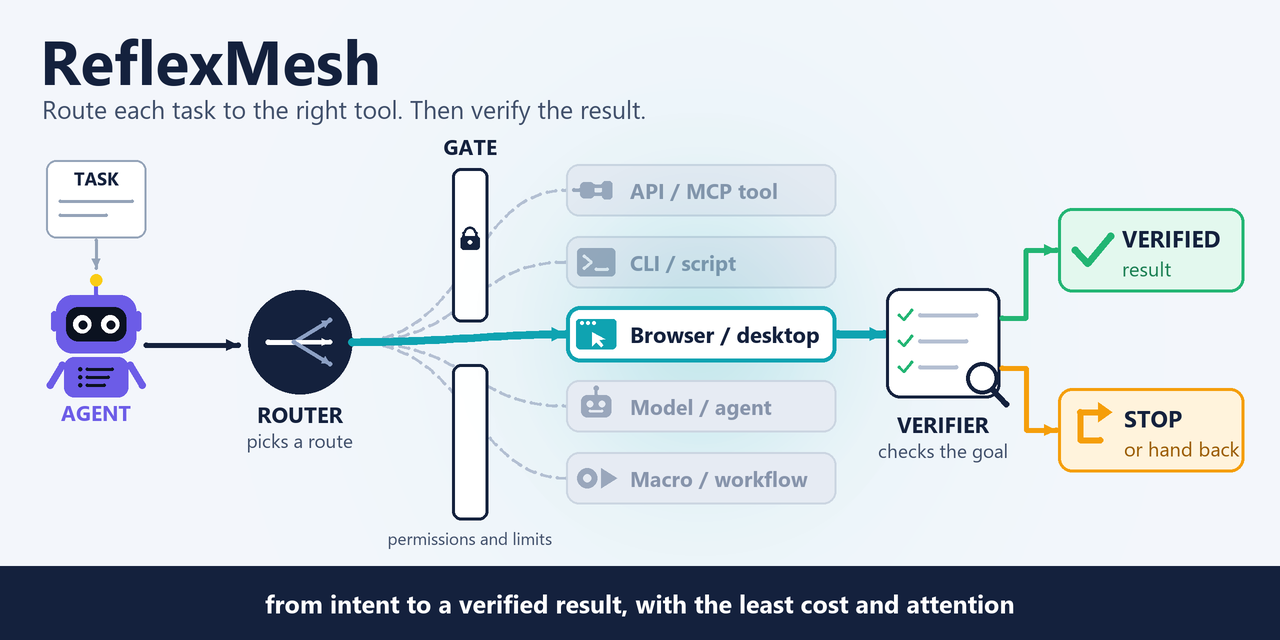
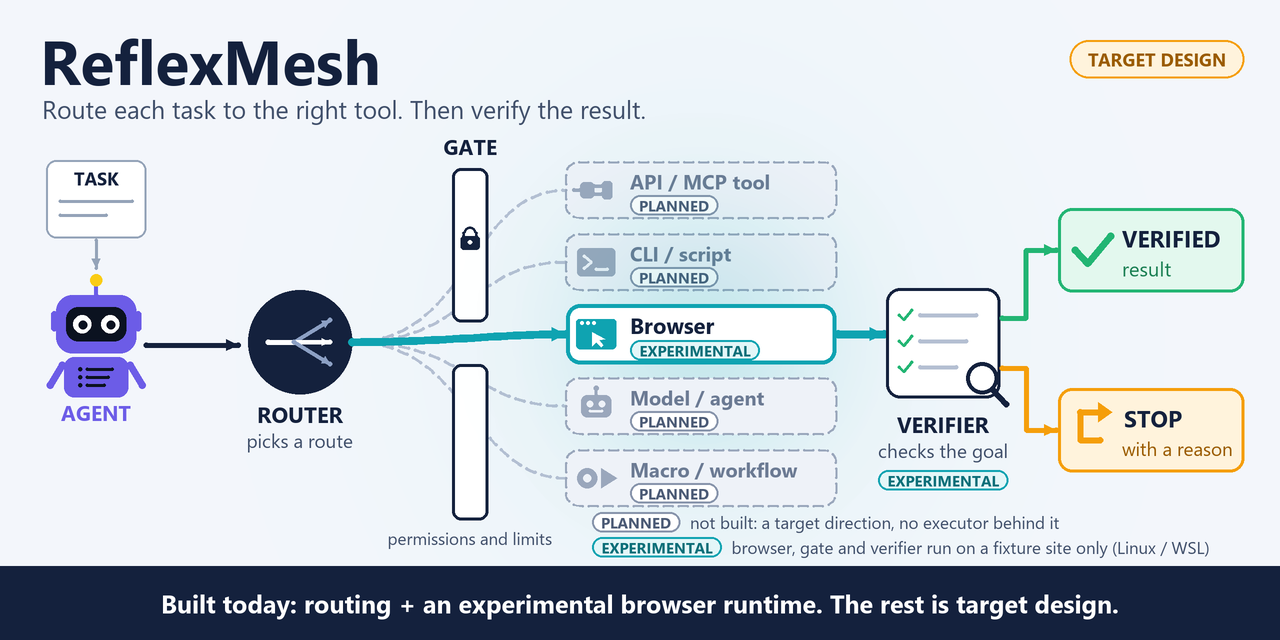
docs(readme): address review on #2
- Split the `run` exit-code entry: exit 2 is an input error or an
  output-directory preparation error before the attempt starts; a failure to
  write trace.jsonl, evidence.jsonl or result.json after the run is
  `failed` / `output_error` and exits 5 (src/reflexmesh/runtime/cli.py).
- Regenerate the hero image so it no longer shows five routes as if all exist:
  the API/MCP, CLI, model/agent and macro routes are drawn dashed and tagged
  PLANNED, the browser route, gate and verifier are tagged EXPERIMENTAL
  (fixture site only), a TARGET DESIGN marker and a "built today" caption are
  added, and "or hand back" (handoff is a V0.6 placeholder) becomes
  "with a reason". Update the alt text in both READMEs.

diff --git a/README.ru.md b/README.ru.md
@@ -1,5 +1,5 @@
 <p align="center">
-  <img src="docs/assets/ReflexMesh-hero.png" alt="ReflexMesh: задача от агента попадает к маршрутизатору, который выбирает один маршрут (API/MCP tool, CLI/скрипт, браузер/desktop, модель/агент, макрос/workflow) через шлюз разрешений и лимитов; верификатор проверяет цель и либо подтверждает результат, либо останавливает работу и возвращает задачу" width="100%">
+  <img src="docs/assets/ReflexMesh-hero.png" alt="ReflexMesh, целевой дизайн: задача от агента попадает к маршрутизатору, который выбирает один маршрут через шлюз разрешений и лимитов; верификатор проверяет цель и либо подтверждает результат, либо останавливает работу с указанием причины. Построен только браузерный маршрут, как эксперимент на сайте-фикстуре вместе со шлюзом и верификатором; маршруты API/MCP tool, CLI/скрипт, модель/агент и макрос/workflow помечены как запланированные" width="100%">
 </p>
 
 <h1 align="center">ReflexMesh</h1>
@@ -203,7 +203,7 @@ reflexmesh run --input task.json --output-dir ./evidence-001 \
 - **TextSlots.** Версионируемые неизменяемые тексты (`name@1`); действия ссылаются на слот, а не несут текст, и критерии могут ссылаться на слоты.
 - **Критерии.** Постусловия, которые read-only verifier проверяет по состоянию сервера-фикстуры: `current_page`, `settings_saved`, `form_submitted_once`, `export_completed_once`, `account_intact`.
 - **Провайдеры.** `--routing-provider stub|jevrouter` и `--action-provider script|jev`, оба задаются явно; `script` — детерминированная тестовая фикстура, передаваемая через `--script`.
-- **Итог.** Один JSON в stdout и `result.json`, `trace.jsonl`, `evidence.jsonl` в выходном каталоге. `attempt_status` — `completed` (выход 0), `blocked` (3), `incomplete` (4), `failed` (5) или `cancelled` (130); ошибки входа или подготовки вывода дают выход 2. `task_outcome` равен `pass` только для завершённой попытки, у которой все проверки прошли. Успех никогда не берётся из собственного статуса harness.
+- **Итог.** Один JSON в stdout и `result.json`, `trace.jsonl`, `evidence.jsonl` в выходном каталоге. `attempt_status` — `completed` (выход 0), `blocked` (3), `incomplete` (4), `failed` (5) или `cancelled` (130); ошибки входа и подготовки выходного каталога (до начала попытки) дают выход 2, а ошибка записи выходных файлов после запуска сообщается как `failed` с причиной остановки `output_error` и даёт выход 5. `task_outcome` равен `pass` только для завершённой попытки, у которой все проверки прошли. Успех никогда не берётся из собственного статуса harness.
 - **Контроль.** Супервизор с дедлайном, который стартует до проверок доступности, маршрутизации и запуска; счётчики шагов и вызовов модели; шлюз диспетчеризации и отмены с определённым порядком; рабочий процесс с ограниченным ожиданием и очисткой; неразрешённые действия записываются как неизвестные эффекты, а не угадываются.
 - **Платформа и зависимости.** Первая поддерживаемая среда — Linux или WSL со свежим браузерным процессом на каждую попытку, фикстурой в loopback и закреплёнными необязательными зависимостями (SystemOneHarness и Browser Use). Супервизор использует метод запуска `fork` из POSIX, поэтому `reflexmesh run` не стартует на нативной Windows (измерено на Windows с Python 3.13). CLI маршрутизации и тесты V0.1–V0.3 это не затрагивает.
 
@@ -388,7 +388,7 @@ python scripts/check_jevrouter_http.py --upstream-dir /path/to/JevRouter
 | Команда | Что делает | Коды выхода |
 |---|---|---|
 | `reflexmesh route [--input FILE\|-] [--provider stub\|jevrouter] [--jev-url URL] [--timeout S] [--allow-demo] [--no-none-candidate]` | Только маршрутизация; печатает JSON RoutingDecision | `0` выбран, `3` отказ, `4` нужно подтверждение, `5` ошибка адаптера или провайдера, `2` ошибка входа |
-| `reflexmesh run --input FILE --output-dir DIR --routing-provider stub\|jevrouter --action-provider script\|jev [--script FILE] [--chrome FILE] [--jev-url URL] [--timeout S]` | Выполняет одну ограниченную браузерную подзадачу на сайте-фикстуре (экспериментально, только POSIX) | `0` завершено, `3` заблокировано, `4` не завершено, `5` сбой, `130` отменено, `2` ошибка входа или вывода |
+| `reflexmesh run --input FILE --output-dir DIR --routing-provider stub\|jevrouter --action-provider script\|jev [--script FILE] [--chrome FILE] [--jev-url URL] [--timeout S]` | Выполняет одну ограниченную браузерную подзадачу на сайте-фикстуре (экспериментально, только POSIX) | `0` завершено, `3` заблокировано, `4` не завершено, `5` сбой (включая ошибку записи `trace.jsonl`, `evidence.jsonl` или `result.json` после запуска: причина остановки `output_error`), `130` отменено, `2` ошибка входа или подготовки выходного каталога (до начала попытки: каталог нельзя создать, он не пуст или нельзя создать `trace.jsonl`) |
 | `reflexmesh --version`, `--help` | Обычный текст | |
 
 ### Коды отказа адаптера JevRouter

diff --git a/README.md b/README.md
@@ -1,5 +1,5 @@
 <p align="center">
-  <img src="docs/assets/ReflexMesh-hero.png" alt="ReflexMesh: a task from an agent goes to a router, which picks one route (API/MCP tool, CLI/script, browser/desktop, model/agent, macro/workflow) through a gate of permissions and limits; a verifier checks the goal and either confirms the result or stops and hands the task back" width="100%">
+  <img src="docs/assets/ReflexMesh-hero.png" alt="ReflexMesh, target design: a task from an agent goes to a router, which picks one route through a gate of permissions and limits; a verifier checks the goal and either confirms the result or stops with a reason. Only the browser route is built, as an experiment on a fixture site together with the gate and the verifier; the API/MCP tool, CLI/script, model/agent and macro/workflow routes are marked planned" width="100%">
 </p>
 
 <h1 align="center">ReflexMesh</h1>
@@ -195,7 +195,7 @@ reflexmesh run --input task.json --output-dir ./evidence-001 \
 - **TextSlots.** Versioned immutable texts (`name@1`); actions refer to a slot rather than carrying text, and criteria can refer to slots.
 - **Criteria.** Postconditions evaluated by a read-only verifier against fixture-server state: `current_page`, `settings_saved`, `form_submitted_once`, `export_completed_once`, `account_intact`.
 - **Providers.** `--routing-provider stub|jevrouter` and `--action-provider script|jev`, both explicit; `script` is a deterministic test fixture supplied by `--script`.
-- **Outcome.** One JSON on stdout and `result.json`, `trace.jsonl`, `evidence.jsonl` in the output directory. `attempt_status` is `completed` (exit 0), `blocked` (3), `incomplete` (4), `failed` (5) or `cancelled` (130); input or output-preparation errors exit 2. `task_outcome` is `pass` only for a completed attempt whose checks all pass. Success is never read from the harness's own status.
+- **Outcome.** One JSON on stdout and `result.json`, `trace.jsonl`, `evidence.jsonl` in the output directory. `attempt_status` is `completed` (exit 0), `blocked` (3), `incomplete` (4), `failed` (5) or `cancelled` (130); input errors and output-directory preparation errors (before the attempt starts) exit 2, while a failure to write the output files after the run is reported as `failed` with stop reason `output_error` and exits 5. `task_outcome` is `pass` only for a completed attempt whose checks all pass. Success is never read from the harness's own status.
 - **Control.** A supervisor with a deadline that starts before availability checks, routing and startup; step and model-call counters; a dispatch and cancellation gate with a defined order; a worker process with bounded grace and cleanup; unresolved actions recorded as unknown effects rather than guessed.
 - **Platform and dependencies.** The first supported environment is Linux or WSL with a fresh browser process per attempt, a loopback fixture, and pinned optional dependencies (SystemOneHarness and Browser Use). The supervisor uses the POSIX `fork` start method, so `reflexmesh run` does not start on native Windows (measured on Windows with Python 3.13). The routing CLI and the V0.1–V0.3 tests are not affected.
 
@@ -380,7 +380,7 @@ The script starts and stops a local demo server itself in a temporary directory.
 | Command | What it does | Exit codes |
 |---|---|---|
 | `reflexmesh route [--input FILE\|-] [--provider stub\|jevrouter] [--jev-url URL] [--timeout S] [--allow-demo] [--no-none-candidate]` | Routing only; prints a RoutingDecision JSON | `0` selected, `3` abstained, `4` needs confirmation, `5` adapter or provider error, `2` input error |
-| `reflexmesh run --input FILE --output-dir DIR --routing-provider stub\|jevrouter --action-provider script\|jev [--script FILE] [--chrome FILE] [--jev-url URL] [--timeout S]` | Executes one bounded browser subtask on a fixture site (experimental, POSIX only) | `0` completed, `3` blocked, `4` incomplete, `5` failed, `130` cancelled, `2` input or output error |
+| `reflexmesh run --input FILE --output-dir DIR --routing-provider stub\|jevrouter --action-provider script\|jev [--script FILE] [--chrome FILE] [--jev-url URL] [--timeout S]` | Executes one bounded browser subtask on a fixture site (experimental, POSIX only) | `0` completed, `3` blocked, `4` incomplete, `5` failed (this includes a write failure for `trace.jsonl`, `evidence.jsonl` or `result.json` after the run: stop reason `output_error`), `130` cancelled, `2` input error or output-directory preparation error (before the attempt starts: the directory cannot be created, is not empty, or `trace.jsonl` cannot be created) |
 | `reflexmesh --version`, `--help` | Plain text | |
 
 ### JevRouter adapter failure codes
